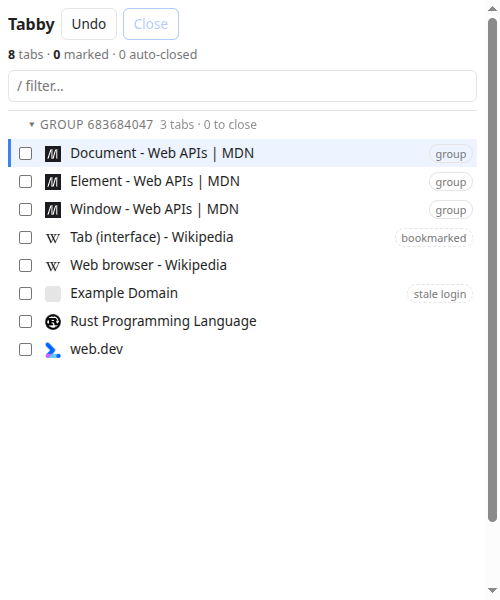
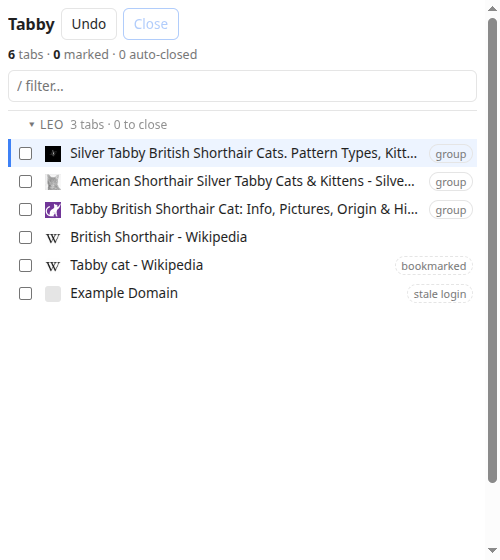
docs: cat-themed screenshots + drop emoji section headers
Re-shot the review-page and side-panel screenshots with a friendlier example —
a 'Leo' tab group of silver-tabby British shorthair pages (the maintainer's cat)
— which also shows off the group-name header. Removed the emoji from the title
and Key Features headers (read as AI boilerplate) and corrected the test count
to 184.

diff --git a/README.md b/README.md
@@ -1,4 +1,4 @@
-# Tabby 🐾
+# Tabby
 
 A fast, keyboard-driven Chrome extension for consolidating, sorting, and pruning your tabs. 
 
@@ -8,7 +8,7 @@ Tabby is fully private, local-first, and telemetry-free.
 
 ## Screenshots
 
-The keyboard-driven review list — tabs consolidated, de-duplicated, and sorted, with an intact tab group and quiet advisory badges (`bookmarked`, `stale login`):
+The keyboard-driven review list after a cleanup — tabs consolidated, de-duplicated, and sorted, with an intact tab group and quiet advisory badges (`bookmarked`, `stale login`). The grouped tabs are research on the maintainer's cat, Leo, a silver tabby British shorthair:
 
 ![Tabby's full-page review surface](docs/img/review-page.png)
 
@@ -20,13 +20,13 @@ The same review UI mounted in Chrome's native side panel, for pruning without le
 
 ## Key Features
 
-### 🌪️ The Cleanup Pipeline
+### The Cleanup Pipeline
 Tabby's pipeline is divided into three distinct automated stages before presenting the review:
 1. **Consolidation:** Gathers tabs from all normal windows into the currently focused window, moving tab groups as intact units.
 2. **Deduplication:** Merges identical pages (with customizable query parameter stripping and path normalizations) to auto-close exact duplicates while protecting your active, pinned, or audible tabs.
 3. **Sorting:** Organizes remaining tabs lexicographically (Host → Path → Query) to put similar topics together, while maintaining tab group contiguity and protecting pinned tabs at the front.
 
-### ⌨️ Keyboard-Driven Review
+### Keyboard-Driven Review
 No mouse required. Tabby provides an extremely fast, vim-inspired keymap to review and prune your tabs:
 - `j` / `k` — Move the cursor down / up
 - `g` / `G` — Jump to the top / bottom of the list
@@ -41,23 +41,23 @@ No mouse required. Tabby provides an extremely fast, vim-inspired keymap to revi
 - `?` — Toggle the keyboard shortcut help cheatsheet
 - `Esc` — Dismiss overlays, visual mode, or active filters
 
-### 📱 Dual Review Surfaces
+### Dual Review Surfaces
 Tabby's entire interface is built host-agnostically, allowing you to choose how you want to review your tabs from the Options page:
 * **Full Page (Default):** Opens in a dedicated full-browser tab (`review.html`) for wide, clear, and comprehensive list management.
 * **Side Panel:** Mounts the exact same UI in Chrome's native side panel (`sidepanel.html`) for a lightweight, side-by-side pruning experience that won't take you away from your current web page. *Requires optional `sidePanel` permission requested on opt-in.*
 
-### 💡 Quiet Close Suggestions
+### Quiet Close Suggestions
 Tabby highlights tabs that are excellent candidates for closure using quiet, dashed hint badges (e.g., duplicated pages, empty/blank tabs, or matching specific staled-state signals). Clicking a badge marks that tab for closing on commit, keeping decisions explicitly in your control.
 
-### 🛡️ Robust Group & Pinned Protection
+### Robust Group & Pinned Protection
 * **Tab Groups:** Keeps your existing tab groups intact. If grouped tabs are moved during consolidation, they move as a whole unit, preventing group dissolution.
 * **Audible & Pinned:** Pinned tabs and tabs playing audio are never auto-closed or moved unless explicitly requested or configured in options.
 * **Stranded Auth Warning:** Highlights pages that may have expired sessions or stranded authentication sequences.
 
-### 📜 Local Records Log & Navigation Trace
+### Local Records Log & Navigation Trace
 Tabby includes a local, telemetry-free Records surface. It tracks a log of your recommendations and close history, and features an opt-in **navigation trace mode** to help you inspect how you arrived at your open tabs and audit your tab patterns over time.
 
-### ⚙️ Deep Configuration Options
+### Deep Configuration Options
 Fine-tune Tabby's core behavior via the Options page:
 - **Normalization:** Configure trailing-slash stripping, WWW matching, and exact query parameter blocking.
 - **Custom Tracking Parameters:** Edit the blocklist of tracking query parameters (e.g., `utm_*`, `gclid`).
@@ -113,7 +113,7 @@ graph TD
 ```bash
 pnpm dev        # Starts Vite dev server with Hot Module Replacement (CRXJS)
 pnpm build      # Compiles and builds production assets to dist/
-pnpm test       # Runs the Vitest test suite (180 unit tests)
+pnpm test       # Runs the Vitest test suite (184 unit tests)
 pnpm typecheck  # Runs TypeScript compiler diagnostics
 pnpm lint       # Enforces ESLint and Prettier standards
 pnpm format     # Re-formats code files with Prettier